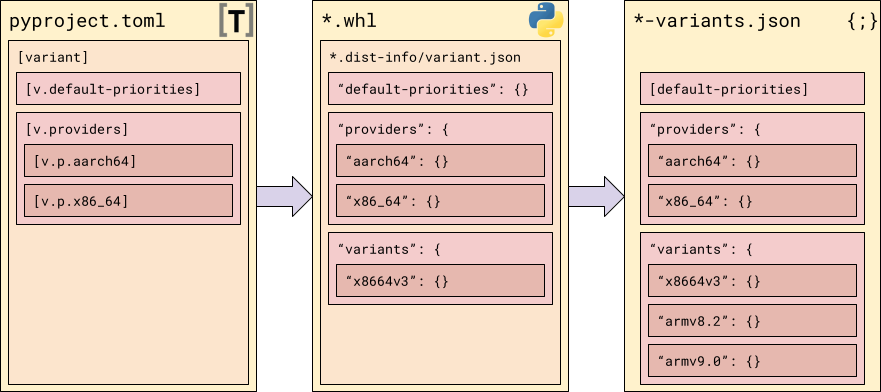
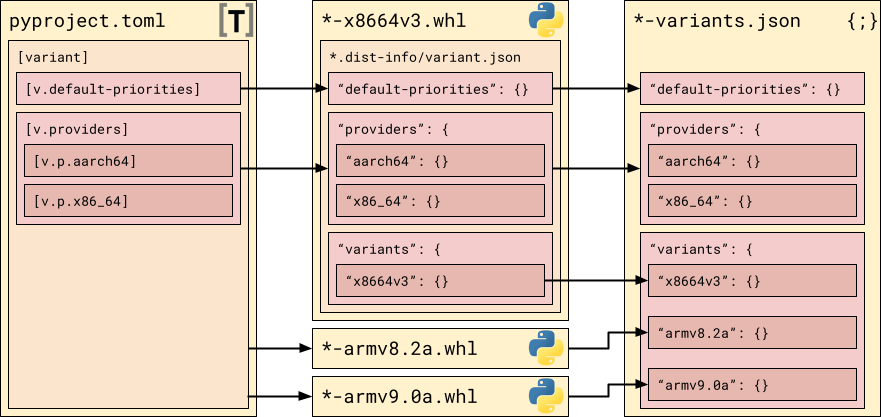
Implement review suggestions + improve last graphic

diff --git a/apps/labs/posts/python-wheels-from-tags-to-variants.md b/apps/labs/posts/python-wheels-from-tags-to-variants.md
@@ -43,7 +43,8 @@ the framework of tags. The advent of GPU-backed computing made distinguishin
 different acceleration frameworks such as CUDA or ROCm important.
 As many distributions have set baselines for their binary packages
 to x86-64 v2, Python packages also started looking at the opportunity
-to express the same requirement. Numerical libraries support different
+to express the same requirement. In fact, the <a rel="external" href="https://github.com/pypa/manylinux/issues/1585#issuecomment-3094469339">manylinux_2_34 images are blocked on x86-64 v2 becoming the default
+compiler target</a>. Numerical libraries support different
 BLAS/LAPACK, MPI, OpenMP providers — and wish to enable the users to choose
 the build using their desired provider.
 While technically tags could be bent to facilitate all these use cases,
@@ -236,17 +237,17 @@ This is how we reached an architecture based on plugins.
 <figure style={{width: 'auto', margin: '0 2em', display: 'inline-block', verticalAlign: 'top'}}>
   <img src="/posts/python-wheels-from-tags-to-variants/variant-flow.png"
     width="683" height="577" alt="A flow chart showing interaction between
-wheel-related software and provider plugins. A PEP 517 backend (such
+wheel-related software and provider plugins. A build backend (such
 as flit_core, hatchling, meson-python…) produces a Wheel Variant, which is
 then consumed by a wheel installer (pip, uv, pdm…). Alongside them, variant
 providers (CUDA, ROCm, x86_64, AArch64, BLAS / LAPACK, MPI, OpenMP…) are shown.
-PEP 517 backends communicate with them to validate variants, wheras installers
+Build backends communicate with them to validate variants, wheras installers
 do to get supported properties." />
   <figcaption>Fig. Interaction between wheel software and provider plugins</figcaption>
 </figure>
 </div>
 
-While PEP 517 backends remain responsible for building wheels, and installers
+While build backends (as defined by PEP 517) remain responsible for building wheels, and installers
 for selecting and installing wheels, they both defer variant-related tasks
 to external variant providers. These are regular Python packages that can
 be maintained and updated independently of the installers, and therefore
@@ -306,8 +307,9 @@ of 12.8, 12.7, 12.6, 12.5… And the upper bound is handled in a similar way
 The x86_64 plugin detects the local CPU and determines what instruction sets
 it supports. Then it returns all supported x86_64 architecture levels,
 and all supported instruction sets. So if you were running a x86_64 v3 CPU,
-it would return v3, v2 and v1 as compatible, with a long list of supported
-instruction set flags.
+it would return v3, v2 and v1 as compatible, plus a long list of supported
+instruction set flags that can be used to indicate specific requirements
+above the baseline implied by level.
 
 ## From exhaustive enumeration to JSON
 
@@ -349,7 +351,7 @@ not scale well.
 
 Instead, we did the next best thing — added an explicit file with variant
 information that is published alongside variant wheels. And from this point,
-a bunch of interesting really changes around the design started happening.
+a bunch of really interesting changes around the design started happening.
 
 If I may jump the chronology a bit at this point, one interesting fact was how
 this file affected variant information and configuration format. As the design
@@ -364,7 +366,7 @@ and pass them through while making `variants.json` entirely autogenerated.
 <div style={{ textAlign: "center" }}>
 <figure style={{width: 'auto', margin: '0 2em', display: 'inline-block', verticalAlign: 'top'}}>
   <img src="/posts/python-wheels-from-tags-to-variants/variant-info-transit.png"
-    width="881" height="392" alt="A diagram showing transit of variant
+    width="881" height="417" alt="A diagram showing transit of variant
 information from pyproject.toml through a wheel to variants.json. pyproject.toml
 features a single 'variant' table, within which there are 'default-priorities'
 and 'providers' subtables, and the latter has 'aarch64' and 'x86_64' subtables.
@@ -372,7 +374,7 @@ This structure is transferred to a '*.dist-info/variant.json' file in the wheel,
 with the same objects as subtables of the 'variant' table, plus an additional
 'variants' object with a single 'x8664v3' subobject. This is in turn converted
 into '*-variants.json' file with the same structure, except that the 'variants'
-objects contains additional 'armv8.2' and 'armv9.0' keys." />
+objects contains additional 'armv8.2' and 'armv9.0' keys from two other wheels." />
   <figcaption>Fig. Variant information transit between file formats</figcaption>
 </figure>
 </div>
